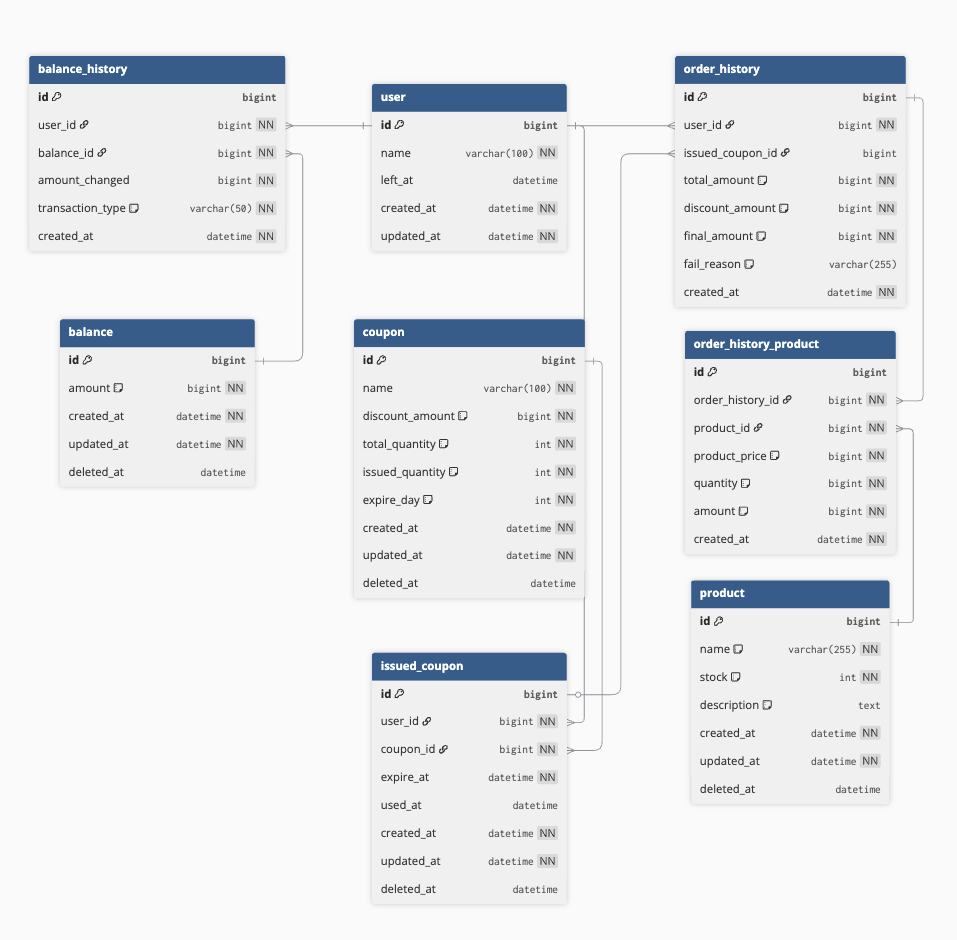
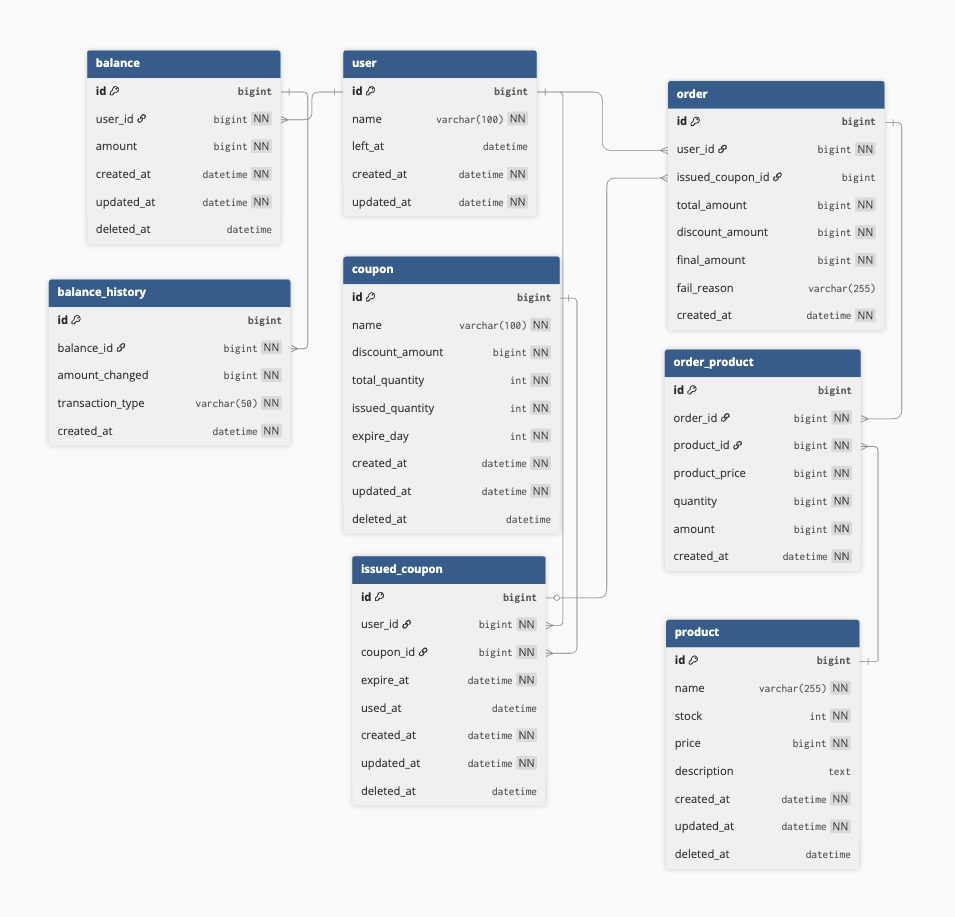
document: order_history -> order, order_history_product, balance 관계 수정

Changed region(s): [[0.0304, 0.0305, 0.6377, 0.9771], [0.6984, 0.0611, 0.9717, 0.9466]]

diff --git a/docs/erd/erd.md b/docs/erd/erd.md
@@ -29,20 +29,20 @@ CREATE TABLE product (
 
 CREATE TABLE balance (
     id BIGINT AUTO_INCREMENT PRIMARY KEY,
+    user_id BIGINT NOT NULL,
     amount BIGINT NOT NULL COMMENT '잔고',
     created_at DATETIME NOT NULL,
     updated_at DATETIME NOT NULL,
     deleted_at DATETIME
+    FOREIGN KEY (user_id) REFERENCES user(id)
 );
 
 CREATE TABLE balance_history (
     id BIGINT AUTO_INCREMENT PRIMARY KEY,
-    user_id BIGINT NOT NULL,
     balance_id BIGINT NOT NULL,
     amount_changed BIGINT NOT NULL,
     transaction_type VARCHAR(50) NOT NULL COMMENT 'CHARGE, USE',
     created_at DATETIME NOT NULL,
-    FOREIGN KEY (user_id) REFERENCES user(id),
     FOREIGN KEY (balance_id) REFERENCES balance(id)
 );
 
@@ -62,7 +62,7 @@ CREATE TABLE issued_coupon (
     id BIGINT AUTO_INCREMENT PRIMARY KEY,
     user_id BIGINT NOT NULL,
     coupon_id BIGINT NOT NULL,
-    expire_at DATETIME NOT NULL,
+    expire_at DATETIME NOT NULL,[Coupon.java](..%2F..%2Fsrc%2Fmain%2Fjava%2Fkr%2Fhhplus%2Fbe%2Fserver%2Fdomain%2Fcoupon%2Fentity%2FCoupon.java)
     used_at DATETIME,
     created_at DATETIME NOT NULL,
     updated_at DATETIME NOT NULL,
@@ -71,7 +71,7 @@ CREATE TABLE issued_coupon (
     FOREIGN KEY (coupon_id) REFERENCES coupon(id)
 );
 
-CREATE TABLE order_history (
+CREATE TABLE order (
     id BIGINT AUTO_INCREMENT PRIMARY KEY,
     user_id BIGINT NOT NULL,
     issued_coupon_id BIGINT,
@@ -84,15 +84,15 @@ CREATE TABLE order_history (
     FOREIGN KEY (issued_coupon_id) REFERENCES issued_coupon(id)
 );
 
-CREATE TABLE order_history_product (
+CREATE TABLE order_product (
     id BIGINT AUTO_INCREMENT PRIMARY KEY,
-    order_history_id BIGINT NOT NULL,
+    order_id BIGINT NOT NULL,
     product_id BIGINT NOT NULL,
     product_price BIGINT NOT NULL COMMENT '상품 주문 당시 가격',
     quantity BIGINT NOT NULL COMMENT '구매 수량',
     amount BIGINT NOT NULL COMMENT '총액 (가격 * 수량)',
     created_at DATETIME NOT NULL,
-    FOREIGN KEY (order_history_id) REFERENCES order_history(id),
+    FOREIGN KEY (order_id) REFERENCES order(id),
     FOREIGN KEY (product_id) REFERENCES product(id)
 );
 ```
